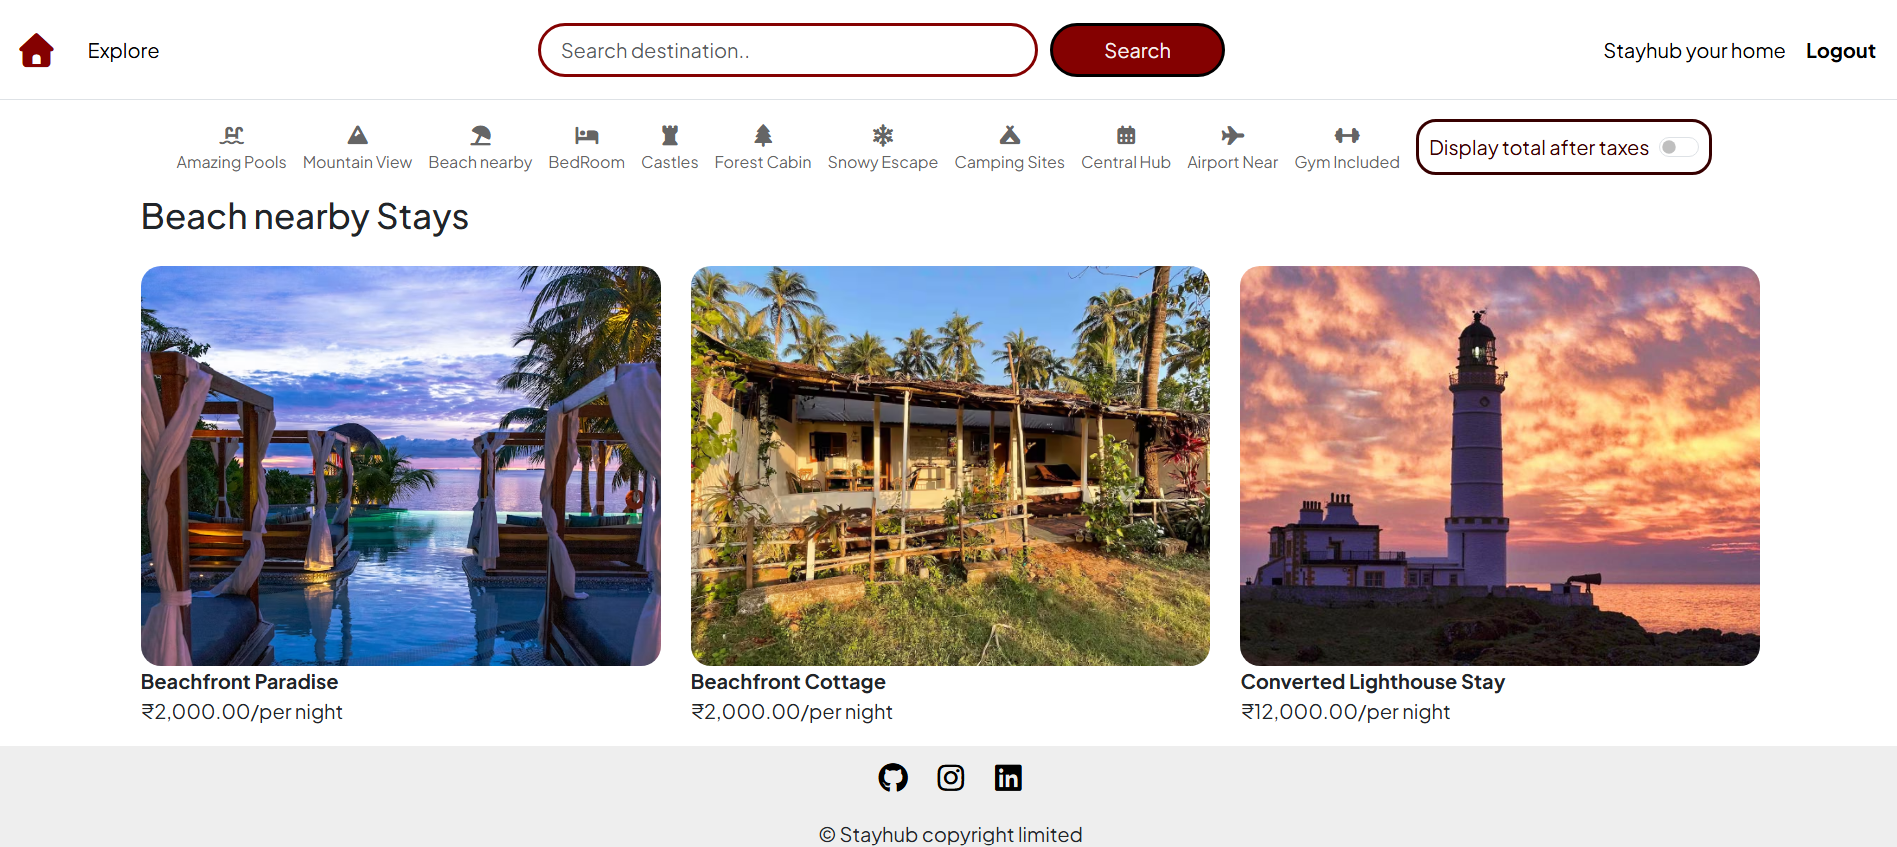
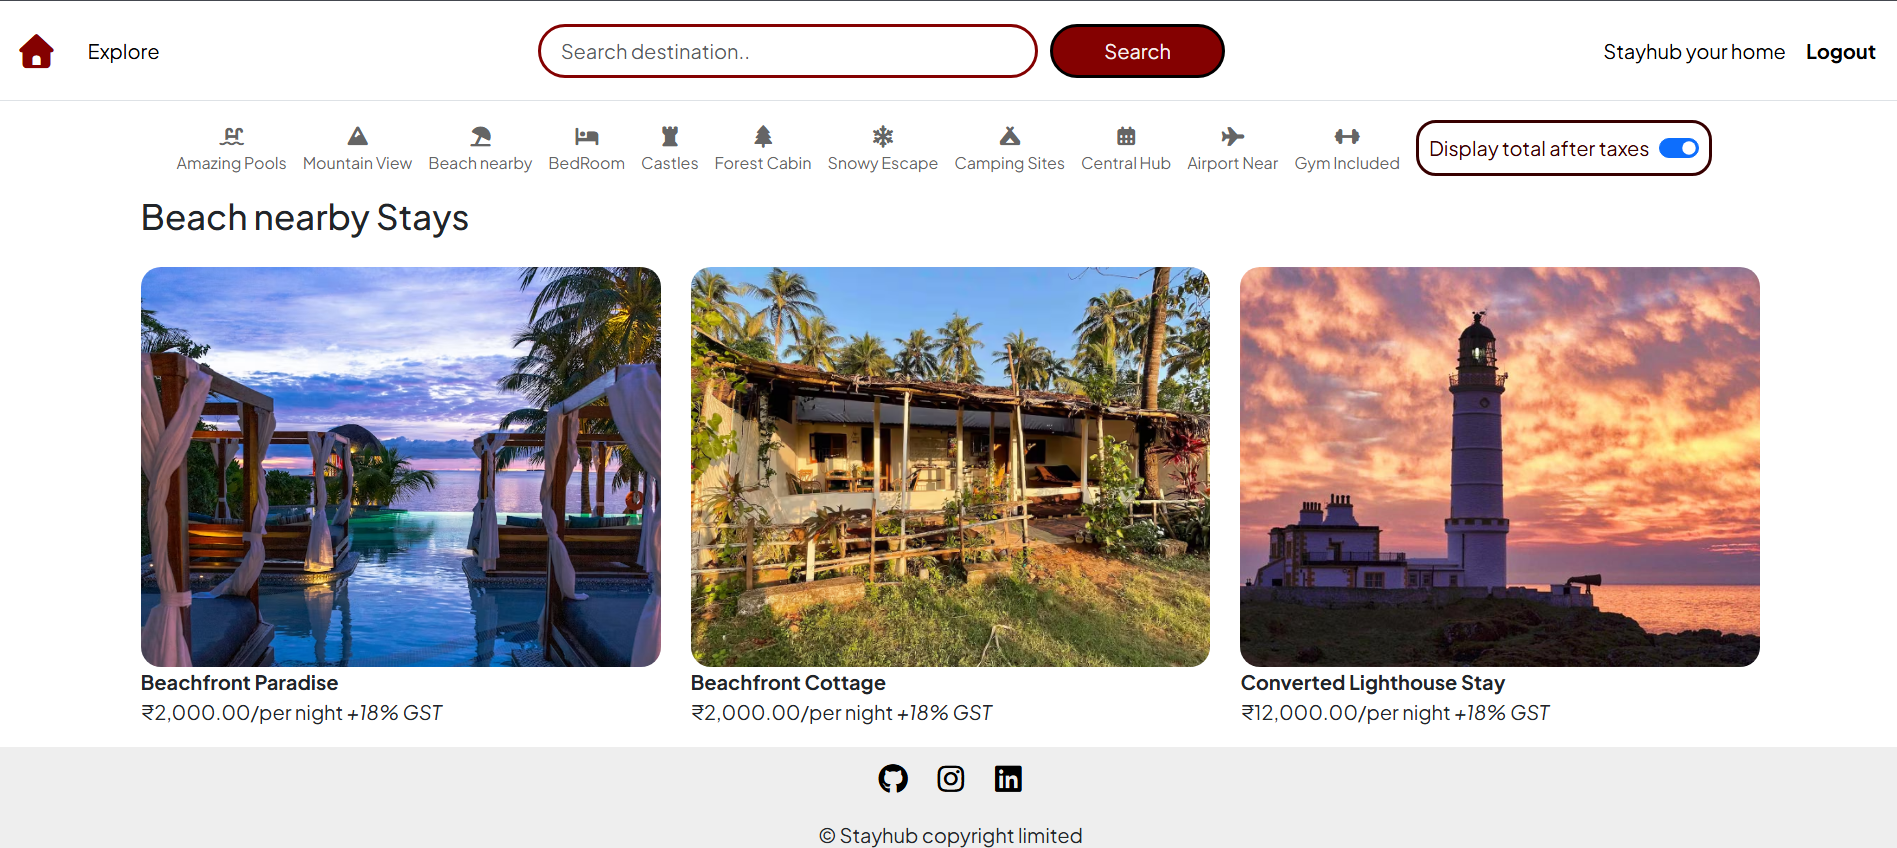
docs: update README and add project assets

diff --git a/README.md b/README.md
@@ -1,36 +1,184 @@
-# StayHub
+# 🏡StayHub
 
 A full-stack rental platform for discovering, creating, and managing property listings.
 
-## About the Project
+## 📌About the Project
 
 StayHub is a full-stack web application inspired by modern rental platforms. It allows users to browse and search for stays, explore listings by category, view detailed property information, and manage their own listings.
 
 The application also includes user authentication, reviews and ratings, image uploads, and authorization for user-specific actions. StayHub follows an MVC architecture with a Node.js and Express.js backend, MongoDB for data storage, and EJS for server-side rendering.
 
-The application is deployed and uses MongoDB Atlas for the production database, Cloudinary for image storage, and Render for hosting.
+The application is deployed using Render, with MongoDB Atlas for the production database and Cloudinary for image storage.
 
-## Live Demo
+## 🔗Live Demo
 
-[View StayHub](https://stayhub-wq1q.onrender.com/listings)
+[StayHub](https://stayhub-wq1q.onrender.com/listings)
 
-## 📸 Screenshots
+## 📸Screenshots
 
-### Home
-![StayHub Home](assets/home.png)
+| Home | Category Filtering | Listing Details |
+|---|---|---|
+| ![Home](assets/home.png) | ![Category Filtering](assets/category-filter.png) | ![Listing Details](assets/show.png) |
 
-### Category Filtering
-![StayHub Category Filtering](assets/category-filter.png)
+| Reviews & Ratings | Create Listing | Authentication |
+|---|---|---|
+| ![Reviews](assets/review.png) | ![Create Listing](assets/create.png) | ![Login](assets/login.png) |
 
-### Listing Details
-![StayHub Listing Details](assets/show.png)
+## ⚙Features
 
-### Reviews & Ratings
-![StayHub Reviews](assets/review.png)
+- Explore and search property listings by destination
+- Discover stays through category-based filtering
+- View detailed property information, pricing, and reviews
+- Create, edit, and delete personal property listings
+- Upload and manage property images with Cloudinary
+- Secure user authentication with signup, login, and logout
+- Session-based authorization for protected actions
+- Share experiences through reviews and 1–5 star ratings
+- Toggle tax-inclusive pricing when browsing stays
+- Form validation, flash messages, and centralized error handling
+- Responsive interface built with Bootstrap
 
-### Create Listing
-![StayHub Create Listing](assets/create.png)
+## 🛠Tech Stack
 
-### Authentication
-![StayHub Login](assets/login.png)
+| Category | Technologies |
+|---|---|
+| Frontend | HTML, CSS, JavaScript, Bootstrap, EJS |
+| Backend | Node.js, Express.js |
+| Database | MongoDB, Mongoose, MongoDB Atlas |
+| Authentication | Passport.js |
+| Sessions | Express Session, Connect-Mongo |
+| Image Storage | Cloudinary |
+| Deployment | Render |
 
+## ⚙Technical Highlights
+
+- Follows an MVC architecture with separate models, controllers, routes, and views
+- Implements authentication and authorization using Passport.js and Express Session
+- Integrates Cloudinary for property image uploads and MongoDB Atlas for cloud data storage
+- Persists user sessions with Connect-Mongo and handles protected user actions
+
+## 📂 Project Structure
+
+```text
+StayHub/
+│
+├── controllers/          # Application logic for listings, reviews, and users
+│   ├── listings.js
+│   ├── reviews.js
+│   └── users.js
+│
+├── init/                 # Database initialization and seed data
+│   ├── data.js
+│   └── index.js
+│
+├── models/               # Mongoose schemas and database models
+│   ├── listing.js
+│   ├── review.js
+│   └── user.js
+│
+├── routes/               # Routes for listings, reviews, and users
+│   ├── listing.js
+│   ├── review.js
+│   └── user.js
+│
+├── views/                # EJS templates for the application UI
+│   ├── includes/         # Reusable EJS components
+│   ├── layouts/          # Main page layout
+│   ├── listings/         # Listing-related pages
+│   ├── users/            # Authentication pages
+│   └── error.ejs         # Error page
+│
+├── public/               # Client-side CSS and JavaScript
+│   ├── css/
+│   └── js/
+│
+├── utils/                # Reusable utility functions and configuration
+│   ├── categories.js
+│   ├── ExpressError.js
+│   └── wrapAsync.js
+│
+├── assets/               # README screenshots and project assets
+│
+├── app.js                # Main application entry point and configuration
+├── middleware.js         # Authentication, authorization, and validation middleware
+├── schema.js             # Joi validation schemas
+├── cloudConfig.js        # Cloudinary configuration
+├── package.json          # Project dependencies and scripts
+└── package-lock.json     # Locked dependency versions
+```
+
+## Getting Started
+
+### Prerequisites
+
+Before running StayHub locally, make sure you have:
+
+- Node.js
+- A MongoDB Atlas account
+- A Cloudinary account
+
+### Installation
+
+Clone the repository:
+
+```bash
+git clone https://github.com/Akshitaa-01/StayHub.git
+cd StayHub
+```
+
+Install the project dependencies:
+
+```bash
+npm install
+```
+
+### 🔐Environment Variables
+
+Create a `.env` file in the root directory and add the following environment variables:
+
+```env
+ATLASDB_URL=your_mongodb_atlas_connection_string
+SESSION_SECRET=your_session_secret
+CLOUD_NAME=your_cloudinary_cloud_name
+CLOUD_API_KEY=your_cloudinary_api_key
+CLOUD_API_SECRET=your_cloudinary_api_secret
+```
+
+These variables are required for the database connection, session management, and image uploads.
+
+Do not commit your `.env` file or expose your credentials.
+
+### Run Locally
+
+Start the development server:
+
+```bash
+nodemon app.js
+```
+
+Once the server is running, open:
+
+```text
+http://localhost:8080
+```
+
+## ☁Deployment
+
+StayHub is deployed on Render.
+
+- MongoDB Atlas is used as the production database
+- Cloudinary is used for property image storage
+- Render hosts the web application
+- The application can be automatically redeployed when changes are pushed to the GitHub repository
+
+## 📈Future Improvements
+
+- Mapbox integration for interactive maps and listing locations
+- Booking and reservation functionality
+- Wishlist / favorite listings
+
+## 👩💻Author
+
+**Akshita Bhardwaj**
+
+[GitHub](https://github.com/Akshitaa-01)
